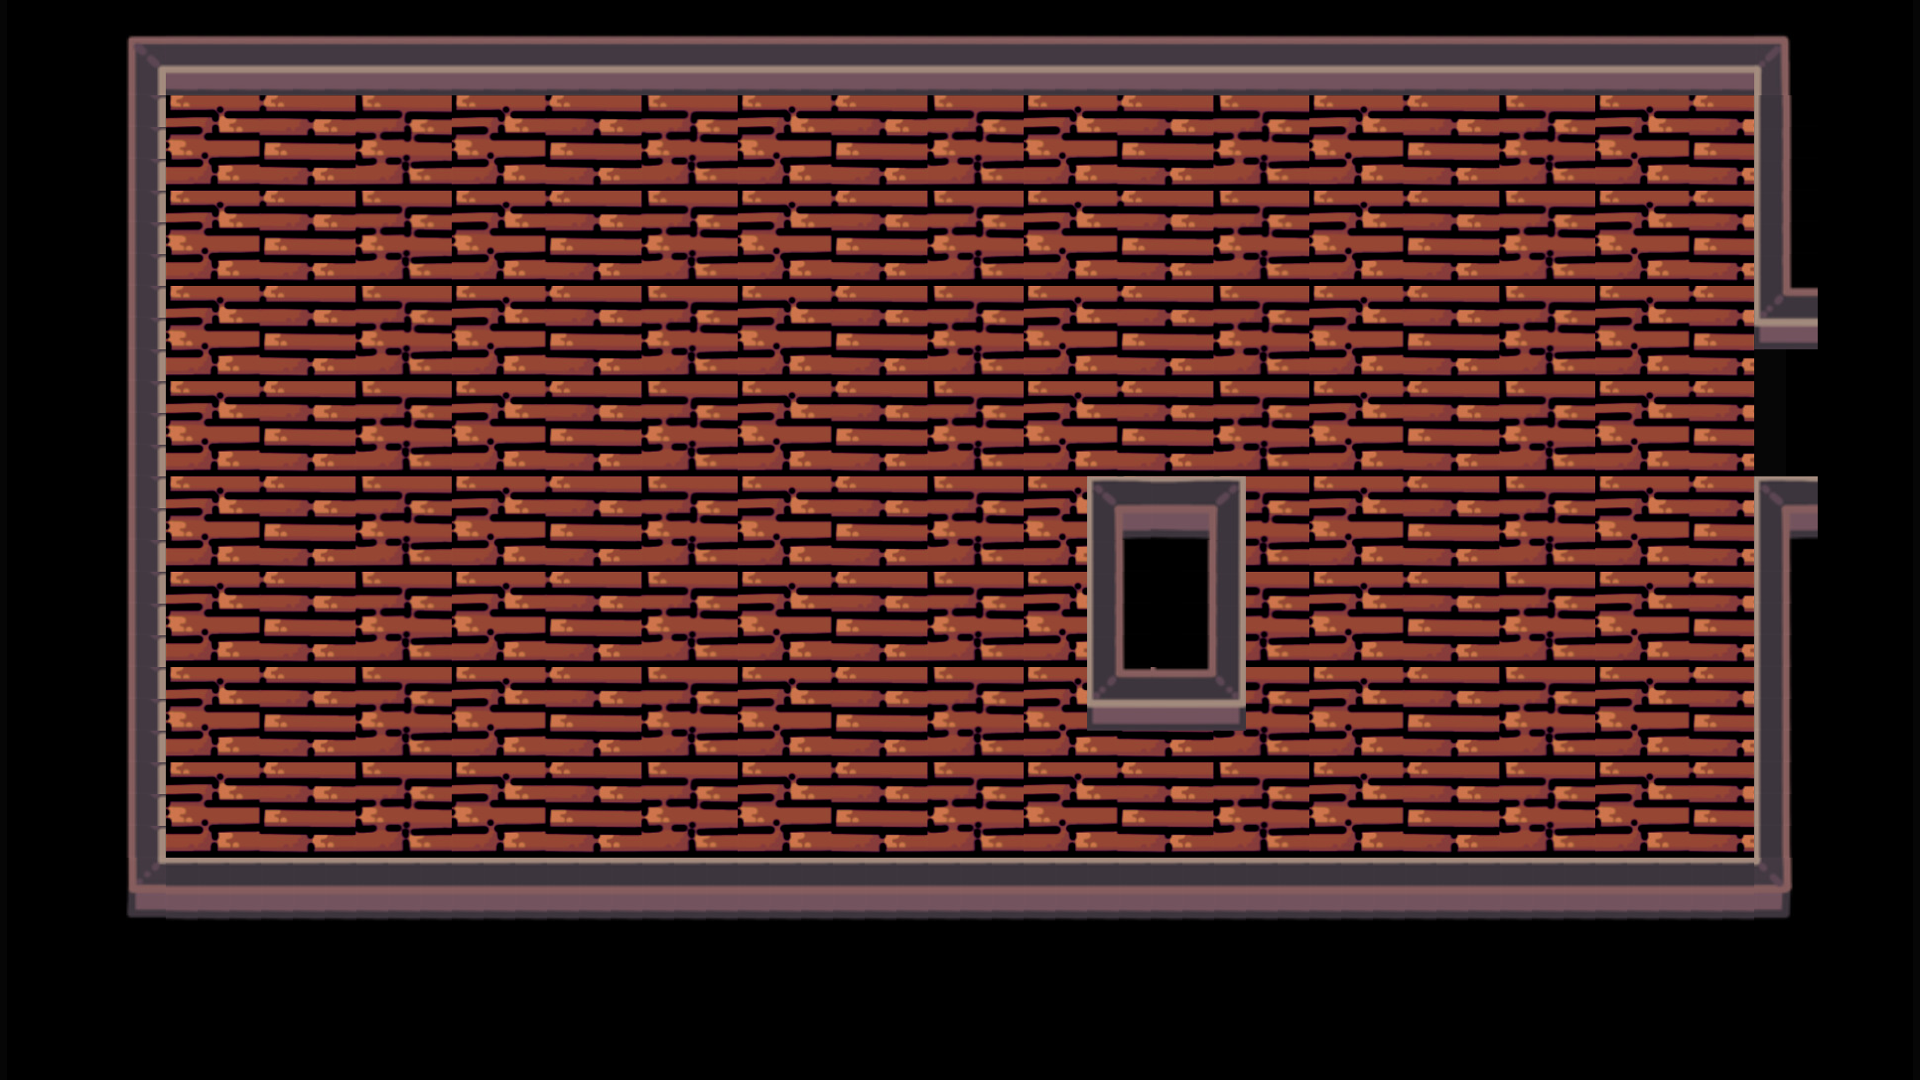
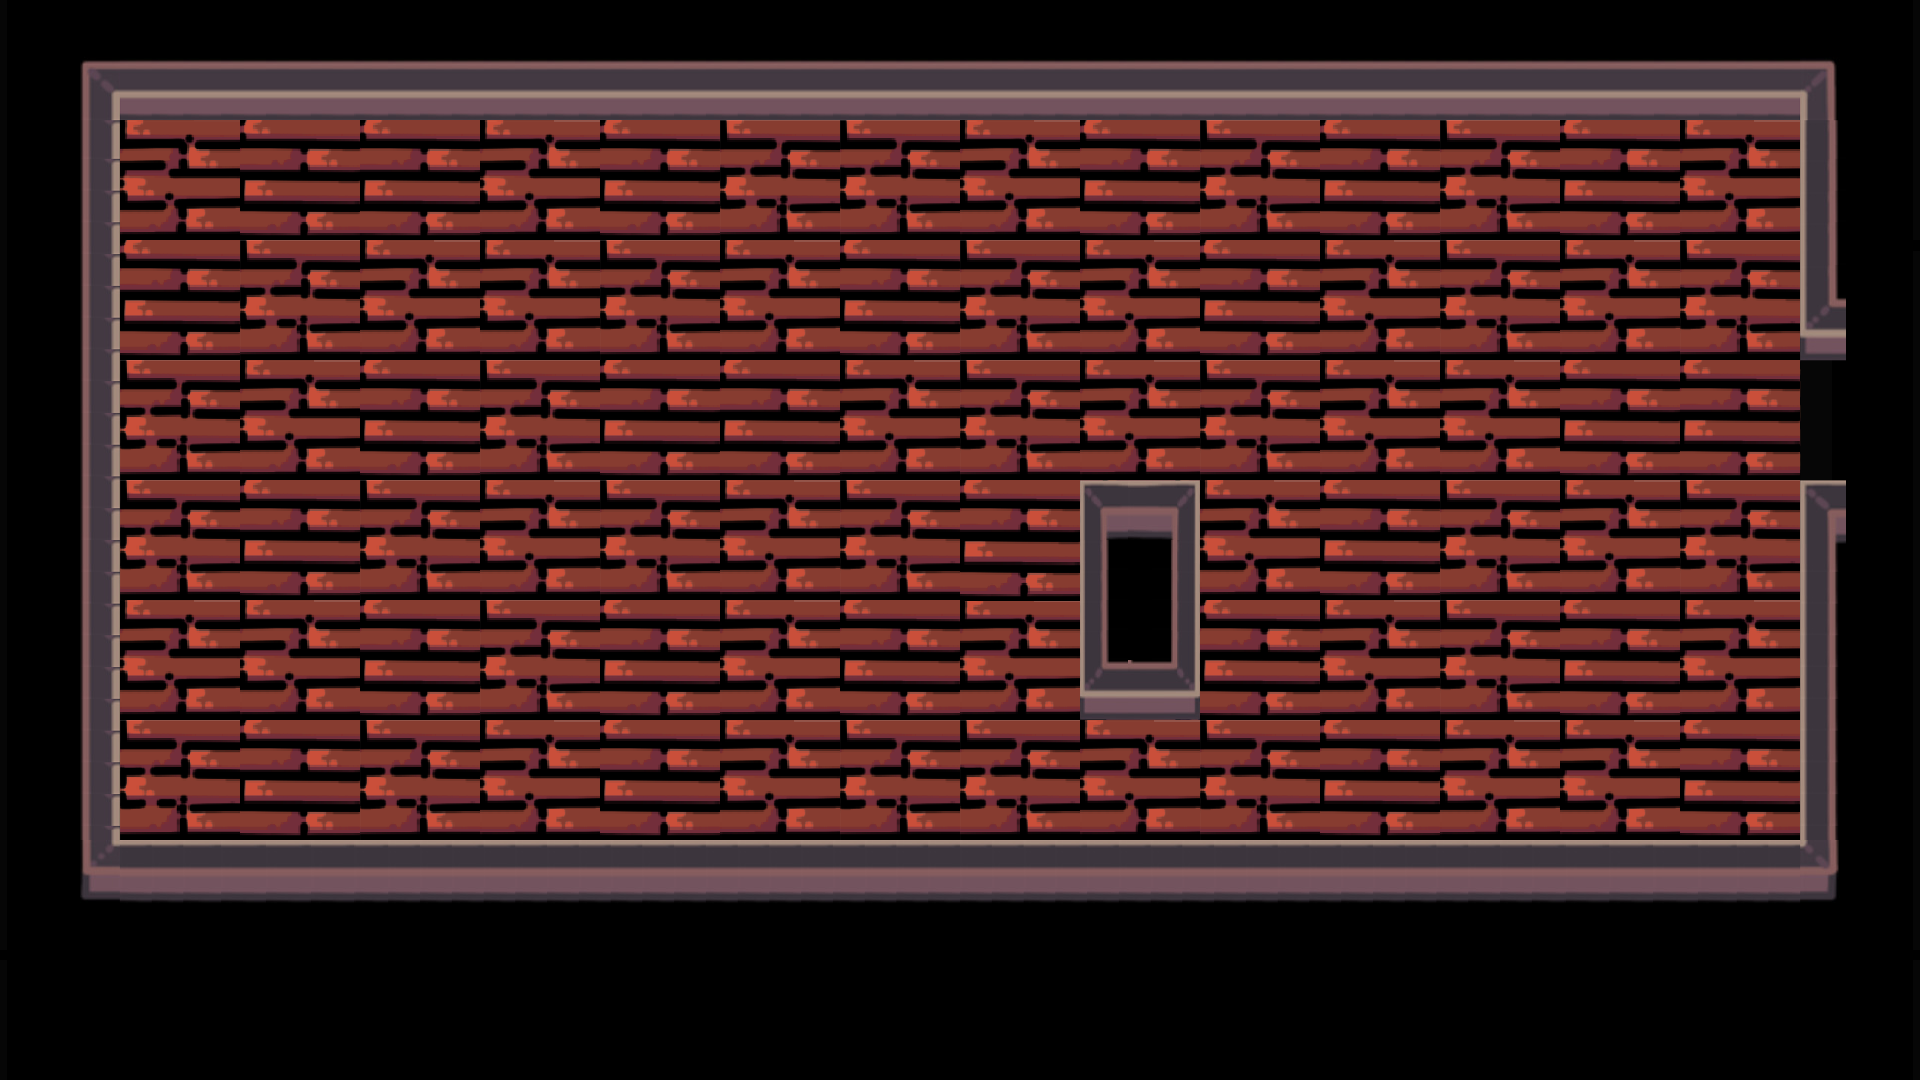
Fixed tiles in brick house + added more trees in w2 scene

diff --git a/Game/Source/ModuleParticles.cpp b/Game/Source/ModuleParticles.cpp
@@ -37,6 +37,7 @@ bool ModuleParticles::Update(float dt)
 			emiters[i]->Emit();
 			emiters[i]->acumulator -= 1.0f / emiters[i]->particleProps.particlepersecond;
 		}
+		
 		emiters[i]->UpdateParticles(dt);
 	}
 	return true;

diff --git a/Game/Source/BattleScene_Wolf.h b/Game/Source/BattleScene_Wolf.h
@@ -54,8 +54,6 @@ private:
 	SString mapName;
 	SString mapFolder;
 
-En
-
 
 	int frames = 0;
 	
